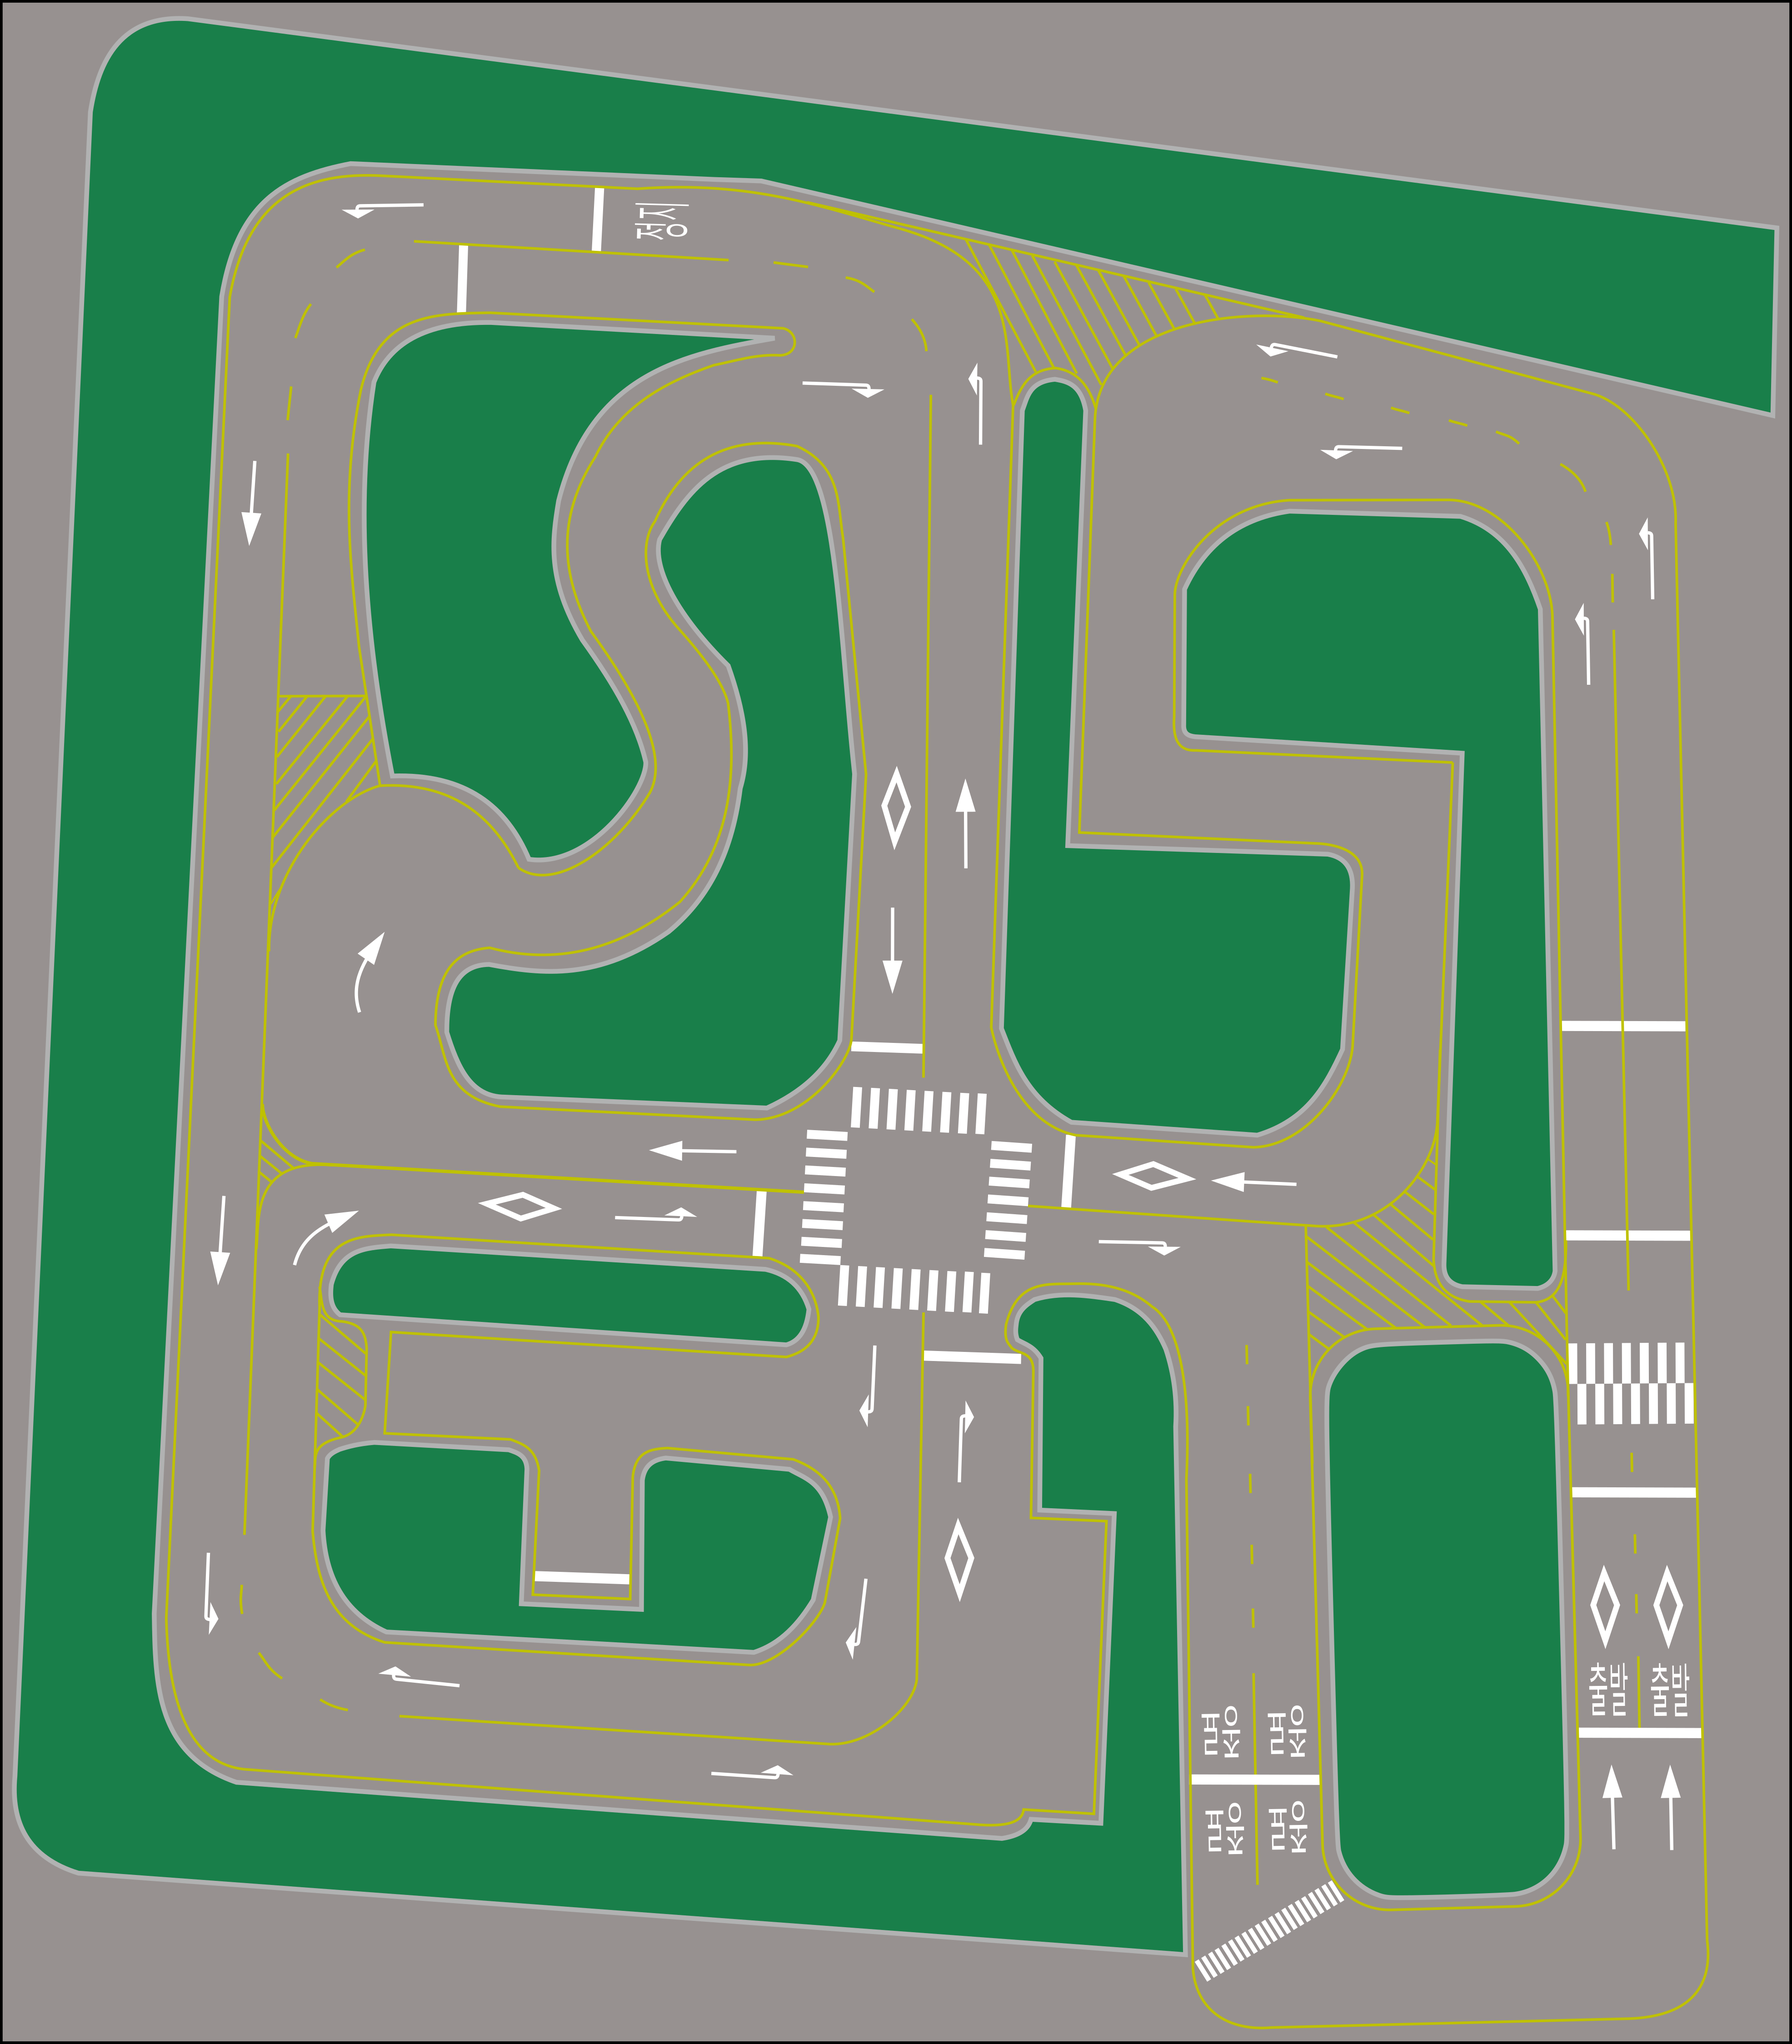
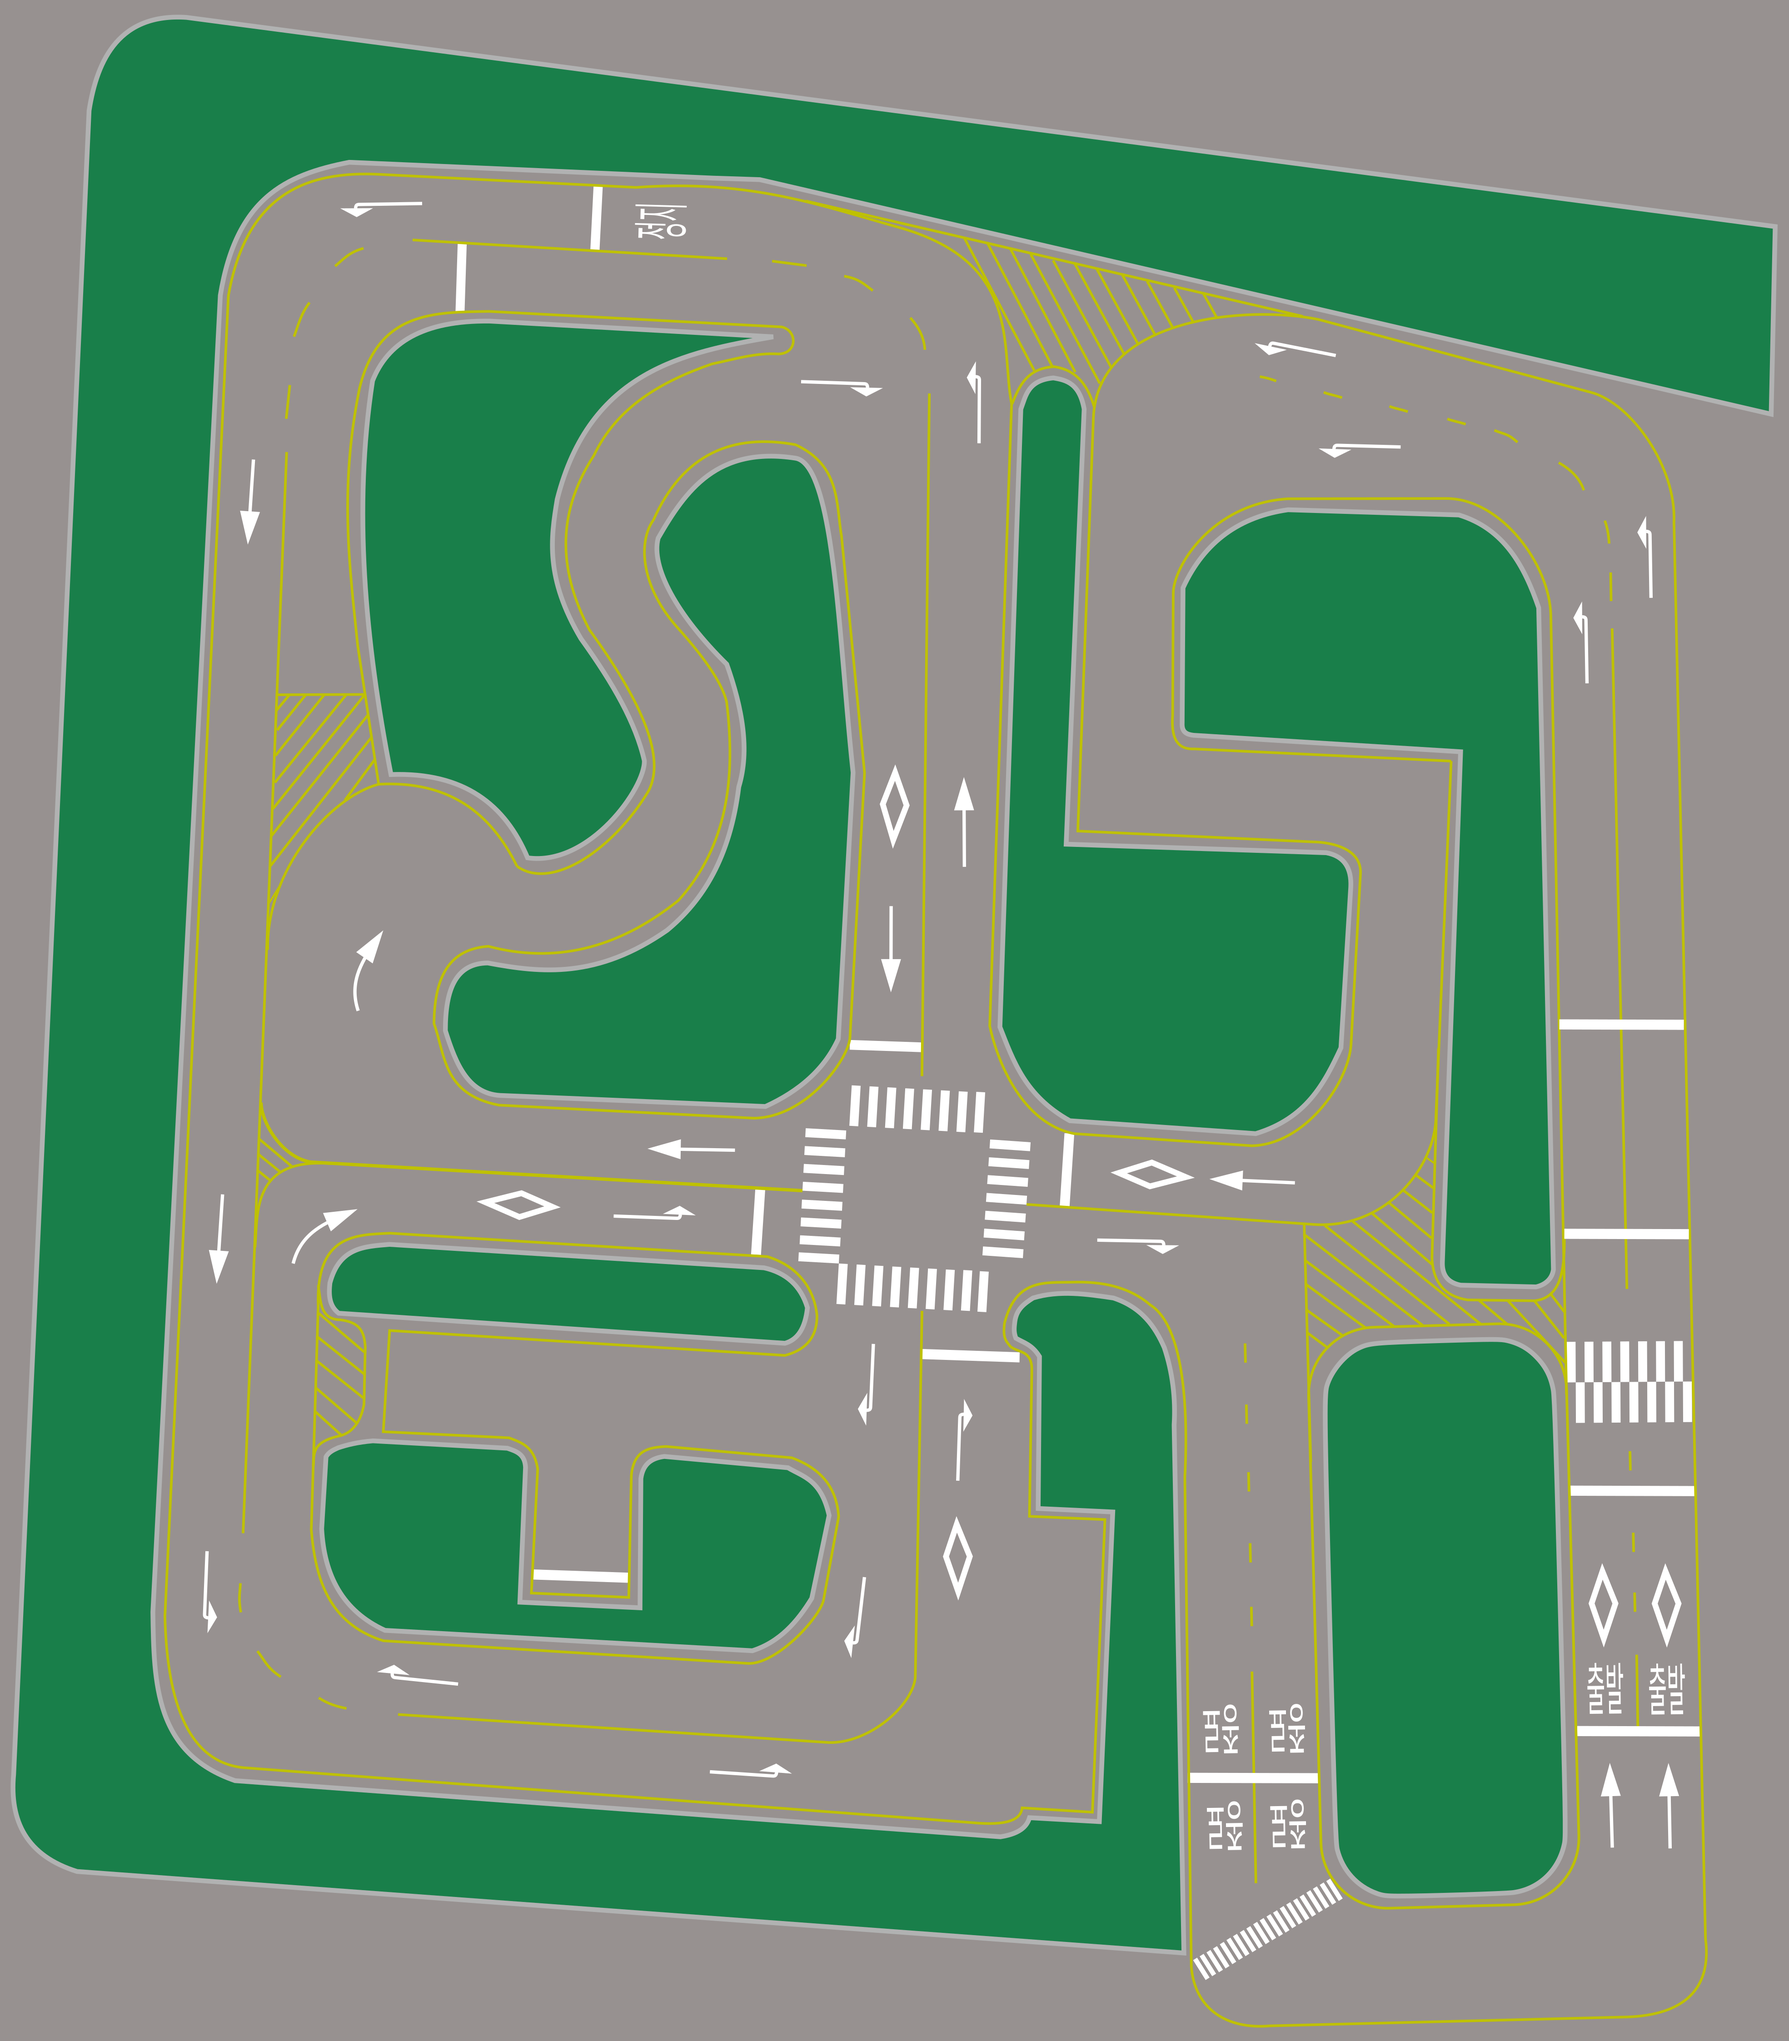
Improved stopline detection

diff --git a/src/auto_vehicle/src/perception.cpp b/src/auto_vehicle/src/perception.cpp
@@ -67,7 +67,7 @@ constexpr double kMinStoplineAspectRatio = 3.0;
 // out narrower marks (e.g. a single crossing stripe) that happen to pass the aspect ratio test.
 constexpr double kMinStoplineWidthFraction = 0.25;
 // Floor on contour area [px^2] to reject small mask noise before the shape checks run.
-constexpr double kMinStoplineAreaPx = 200.0;
+constexpr double kMinStoplineAreaPx = 500.0;
 
 constexpr int kWindowWidth = 420;
 constexpr int kWindowHeight = 300;
@@ -356,8 +356,8 @@ Perception::StoplineResult Perception::find_stopline(
   // vehicle's own lane center (origin.x). One lane spans mask.cols / kNumLaneInScreen px, the same
   // scale used everywhere else in this file.
   const double lane_width_px = mask.cols / kNumLaneInScreen;
-  const double band_min_x = origin.x - lane_width_px / 2.0;
-  const double band_max_x = origin.x + lane_width_px / 2.0;
+  const double band_min_x = origin.x - 1.2 * lane_width_px / 2.0;
+  const double band_max_x = origin.x + 1.2 * lane_width_px / 2.0;
 
   bool found = false;
   cv::Rect best_box;
@@ -461,7 +461,6 @@ void Perception::image_callback(const sensor_msgs::msg::Image::SharedPtr msg)
   if (right_fit.valid && left_fit.valid) {
     const double lane_width_m =
       (right_points.front().x - left_points.front().x) * meters_per_pixel;
-    printf("Lane width: %.2f m\n", lane_width_m);
     if (lane_width_m > kMaxPlausibleLaneWidthMeters) {
       // The two lines are farther apart than a real lane, so at least one of them isn't this
       // lane's own line -- trust whichever side is physically closer to the vehicle rather than
